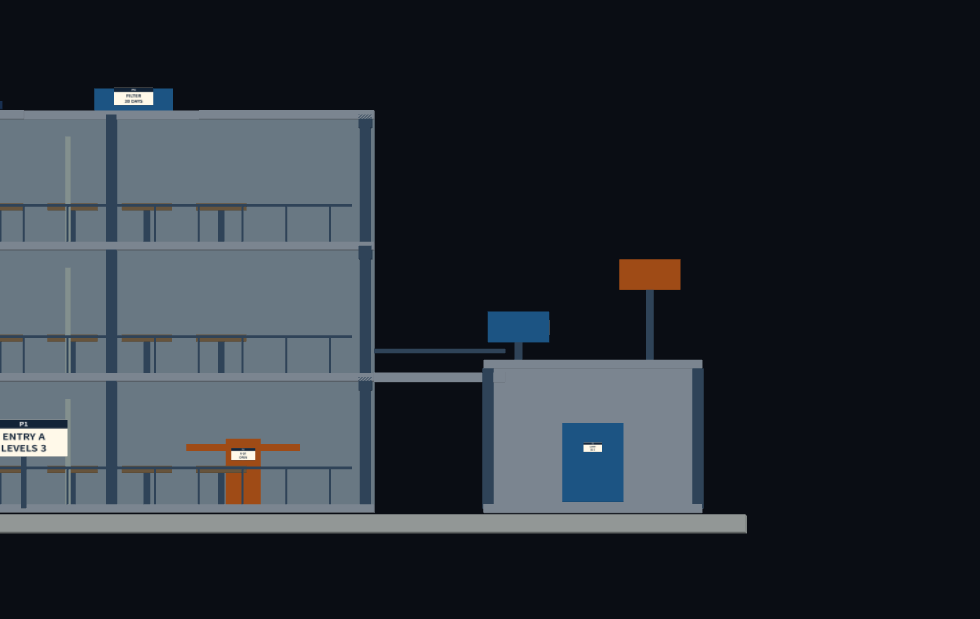
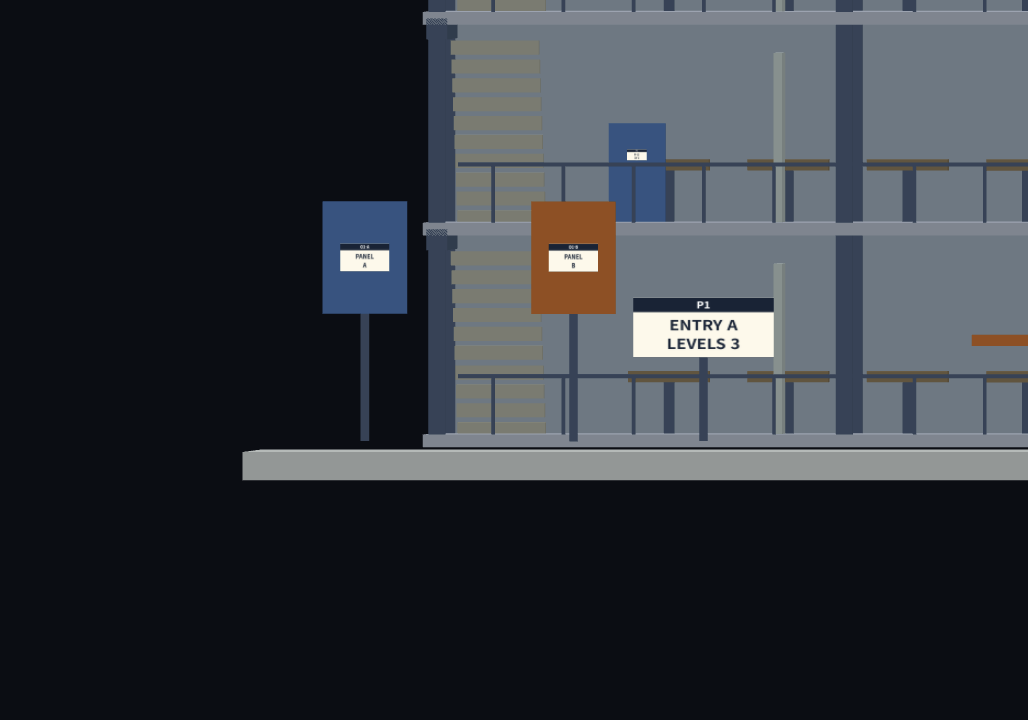
O1 실험 문제점 해결

diff --git a/week4/improved/d04-inspection-controls.js b/week4/improved/d04-inspection-controls.js
@@ -13,7 +13,7 @@ window.InspectionControls = function(canvas) {
     {name:'P4',position:[0.7,9.7,3.3],yaw:-Math.PI/2,pitch:0},
     {name:'P5',position:[-0.3,5.5,-7.4],yaw:Math.PI/2,pitch:0},
     {name:'P6',position:[11.1,1.3,4.1],yaw:-Math.PI/2,pitch:0},
-    {name:'O1',position:[10.9,4.8,14.3],yaw:-Math.PI/2,pitch:0},
+    {name:'O1',position:[-5.8, 2.2, 19.2],yaw:-Math.PI/2,pitch:0},
     {name:'O2',position:[29.8,4.7,-0.6],yaw:Math.PI,pitch:0}
   ];
   const collisionRadius=0.22;
